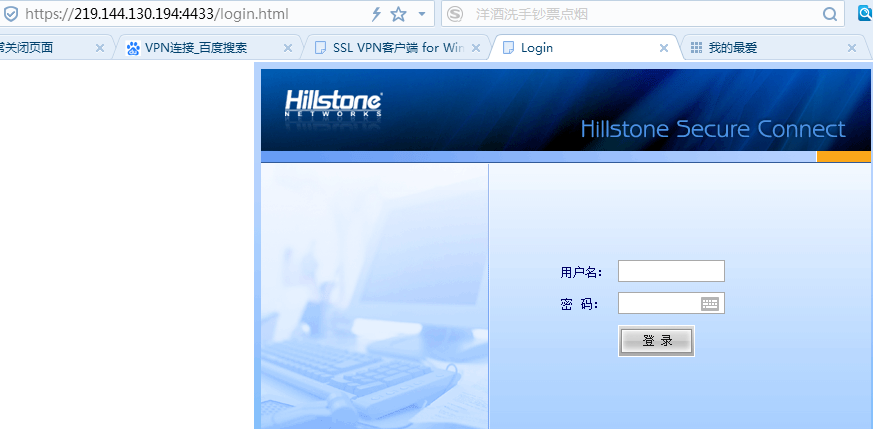
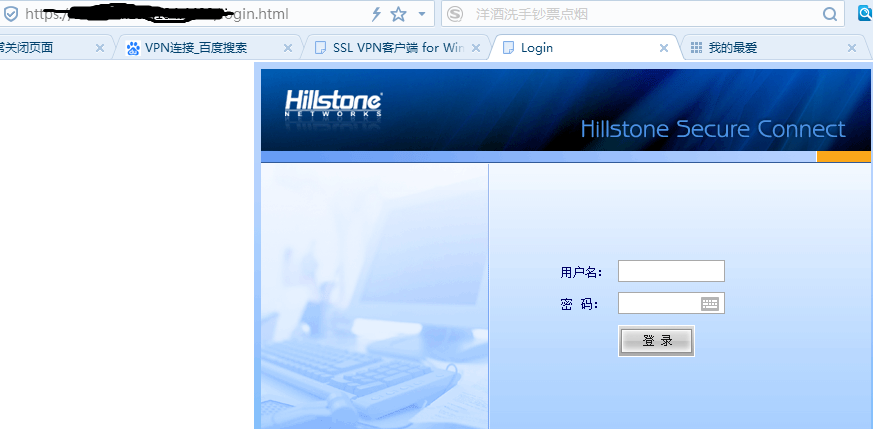
name

Changed region(s): [[0.0619, 0.0, 0.2784, 0.0606]]

diff --git a/VPN_connect.md b/VPN_connect.md
@@ -18,7 +18,12 @@ H3<本文档是关于远程访问服务器中VPN客户端的下载和安装,。>
 2
 . 输入账号：**********
    密码：**********
-<br>登录后，进入下载界面。点击“下载”，即可下载安装“scvpn.exe”。成功安装后，双击桌面的Hillstone Secure Connect快捷方式，在弹出的登录对话框中填写所需内容。
+<br>登录后，进入下载界面。点击“下载”，即可下载安装“scvpn.exe”。成功安装后，双击桌面的Hillstone Secure Connect快捷方式，出现以下界面：
+
+![](images/hillstone.png)
+
+在此对话框中填写所需内容，注意这里的信息填的是该设备端的信息。例如sigma。
+
 
 
 
